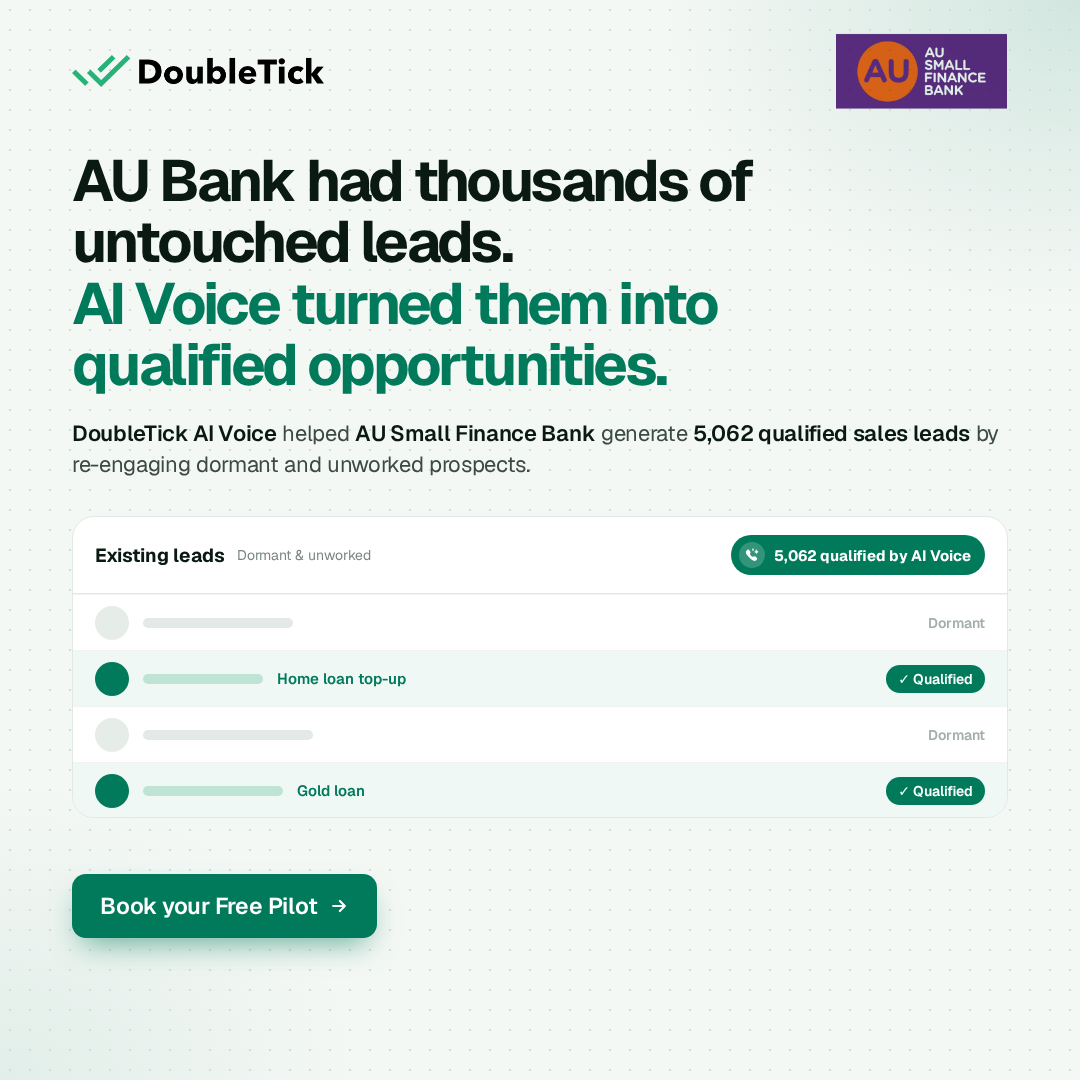
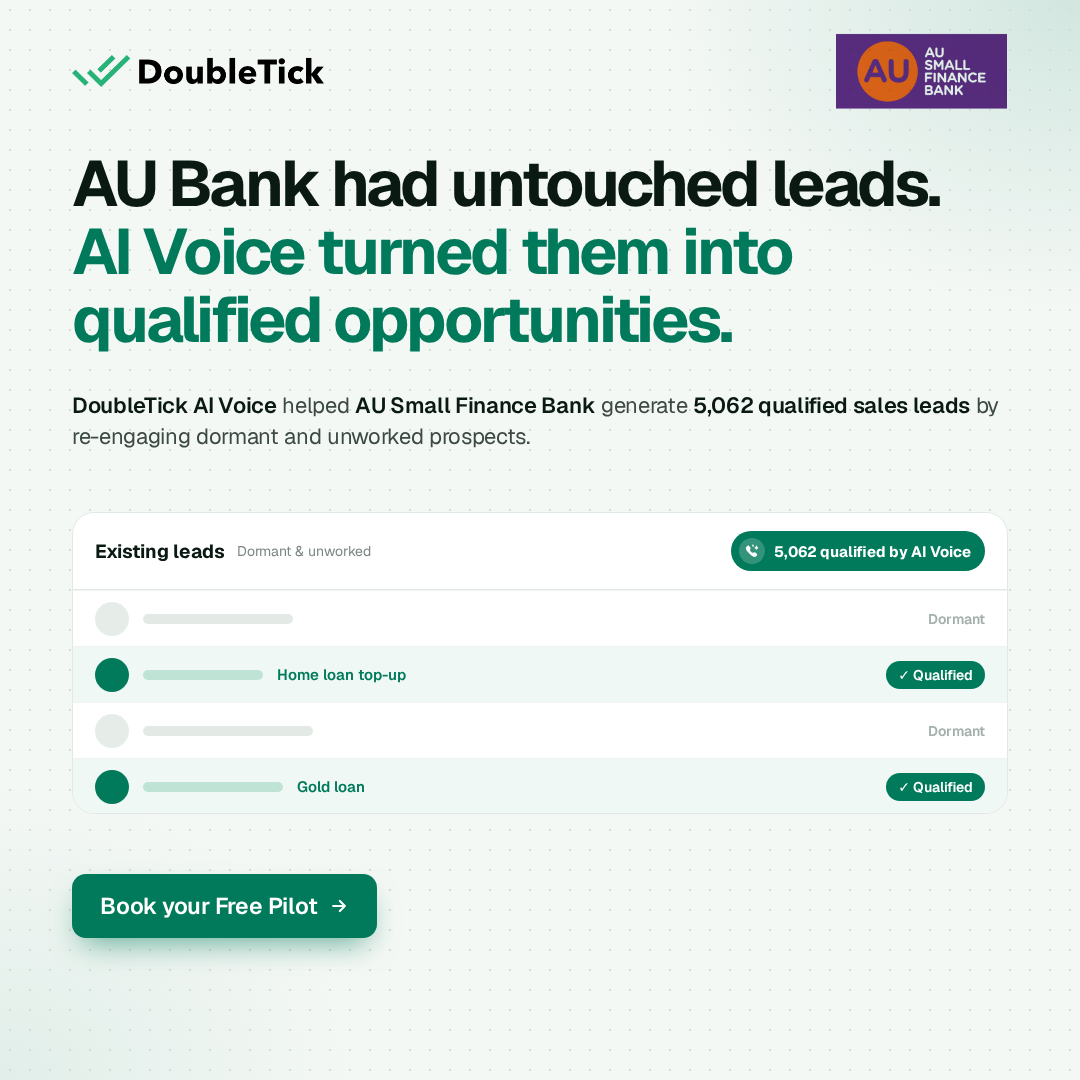
feat: shorter 'had untouched leads' hook in AU v10 ad
Claude-Session: https://claude.ai/code/session_013Hi5o4KgvuLbKTeGkStAKX

diff --git a/ads/doubletick-case-au-v10/index.html b/ads/doubletick-case-au-v10/index.html
@@ -14,14 +14,14 @@
   .top { left: 72px; right: 72px; top: 52px; display: flex; align-items: center; justify-content: space-between; }
   .logo { height: 32px; display: block; }
   .client { height: 104px; margin: -33px -22px -33px 0; mix-blend-mode: multiply; display: block; }
-  h1 { left: 72px; right: 72px; top: 150px; font-size: 58px; line-height: 1.06; letter-spacing: -0.045em; font-weight: 700; }
+  h1 { left: 72px; right: 72px; top: 150px; font-size: 64px; line-height: 1.06; letter-spacing: -0.045em; font-weight: 700; }
   h1 em { font-style: normal; color: var(--green); }
   h1 .m { color: var(--muted); }
-  .sub { left: 72px; right: 72px; top: 418px; font-size: 22px; letter-spacing: -0.02em; line-height: 1.4; color: var(--ink-2); letter-spacing: -0.015em; }
+  .sub { left: 72px; right: 72px; top: 390px; font-size: 22px; letter-spacing: -0.02em; line-height: 1.4; color: var(--ink-2); letter-spacing: -0.015em; }
   .sub b { color: var(--ink); font-weight: 600; }
 
   /* visual: AU's existing lead list, qualified rows lit up by AI Voice */
-  .vis { left: 72px; top: 516px; width: 936px; height: 302px; background: #fff; border: 1px solid var(--line); border-radius: 22px; overflow: hidden; }
+  .vis { left: 72px; top: 512px; width: 936px; height: 302px; background: #fff; border: 1px solid var(--line); border-radius: 22px; overflow: hidden; }
   .lh { display: flex; align-items: center; gap: 12px; padding: 18px 22px; border-bottom: 1px solid var(--line); }
   .lh .tt { font-size: 19px; font-weight: 700; }
   .lh .ct { font-size: 14px; color: var(--muted); }
@@ -43,7 +43,7 @@
 <body><div class="ad">
   <div class="top"><img class="logo" src="doubletick-logo.webp" alt="DoubleTick" /><img class="client" src="au-bank-logo.png" alt="AU Small Finance Bank" /></div>
 
-  <h1>AU Bank had thousands of<br/>untouched leads.<br/><em>AI Voice turned them into</em><br/><em>qualified opportunities.</em></h1>
+  <h1>AU Bank had untouched leads.<br/><em>AI Voice turned them into</em><br/><em>qualified opportunities.</em></h1>
   <p class="sub"><b>DoubleTick AI Voice</b> helped <b>AU Small Finance Bank</b> generate <b>5,062 qualified sales leads</b> by re-engaging dormant and unworked prospects.</p>
 
   <div class="vis">
